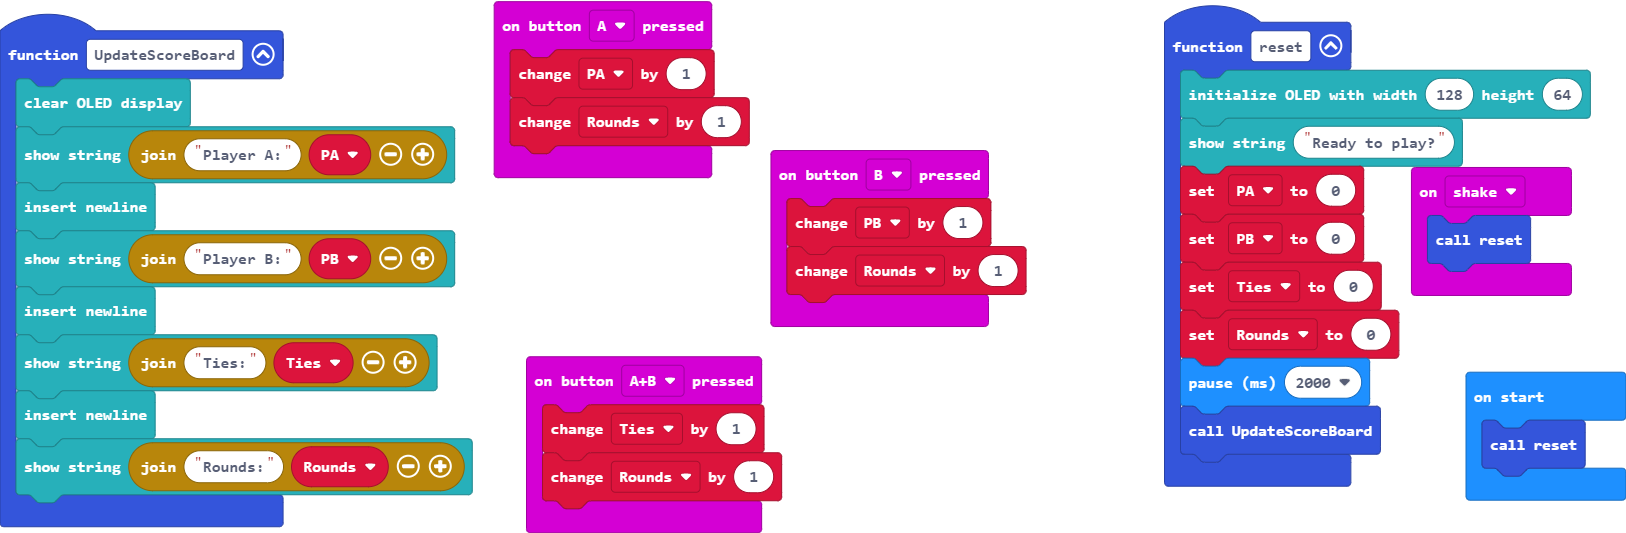
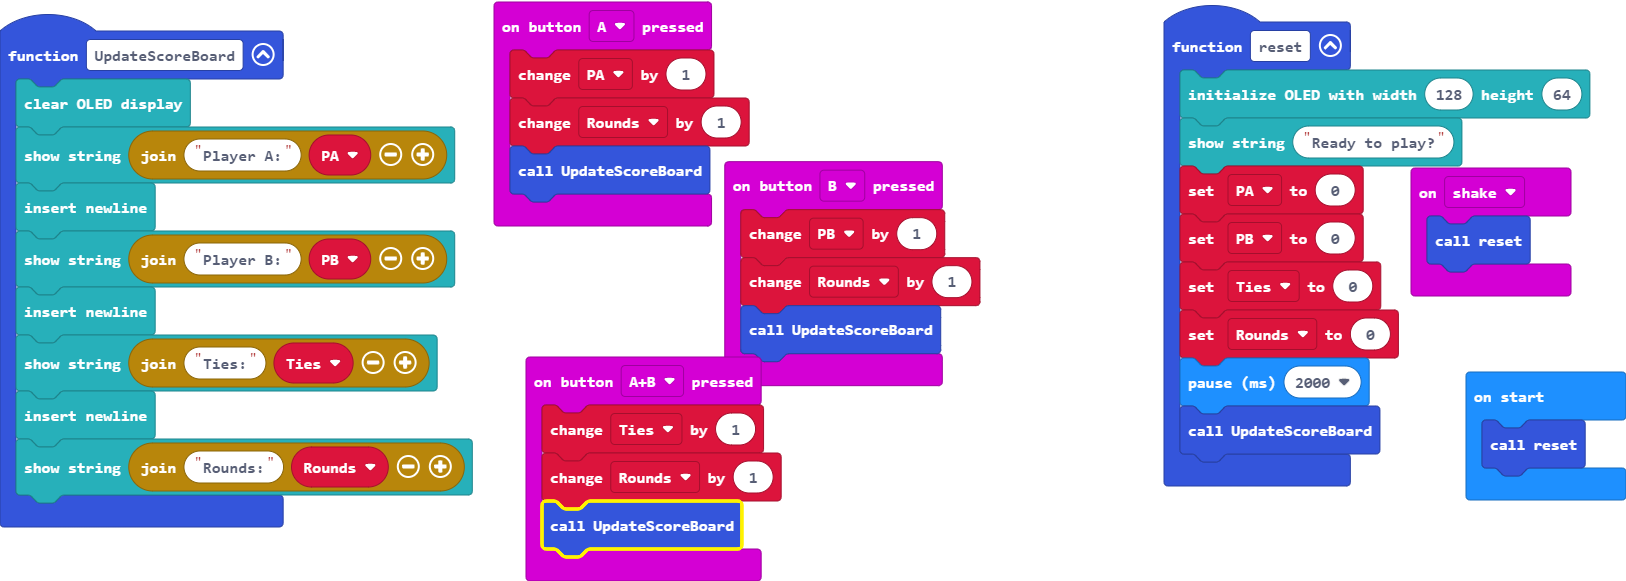
Update main.blocks, main.ts

diff --git a/main.ts b/main.ts
@@ -11,14 +11,17 @@ function UpdateScoreBoard () {
 input.onButtonPressed(Button.A, function () {
     PA += 1
     Rounds += 1
+    UpdateScoreBoard()
 })
 input.onButtonPressed(Button.AB, function () {
     Ties += 1
     Rounds += 1
+    UpdateScoreBoard()
 })
 input.onButtonPressed(Button.B, function () {
     PB += 1
     Rounds += 1
+    UpdateScoreBoard()
 })
 input.onGesture(Gesture.Shake, function () {
     reset()
